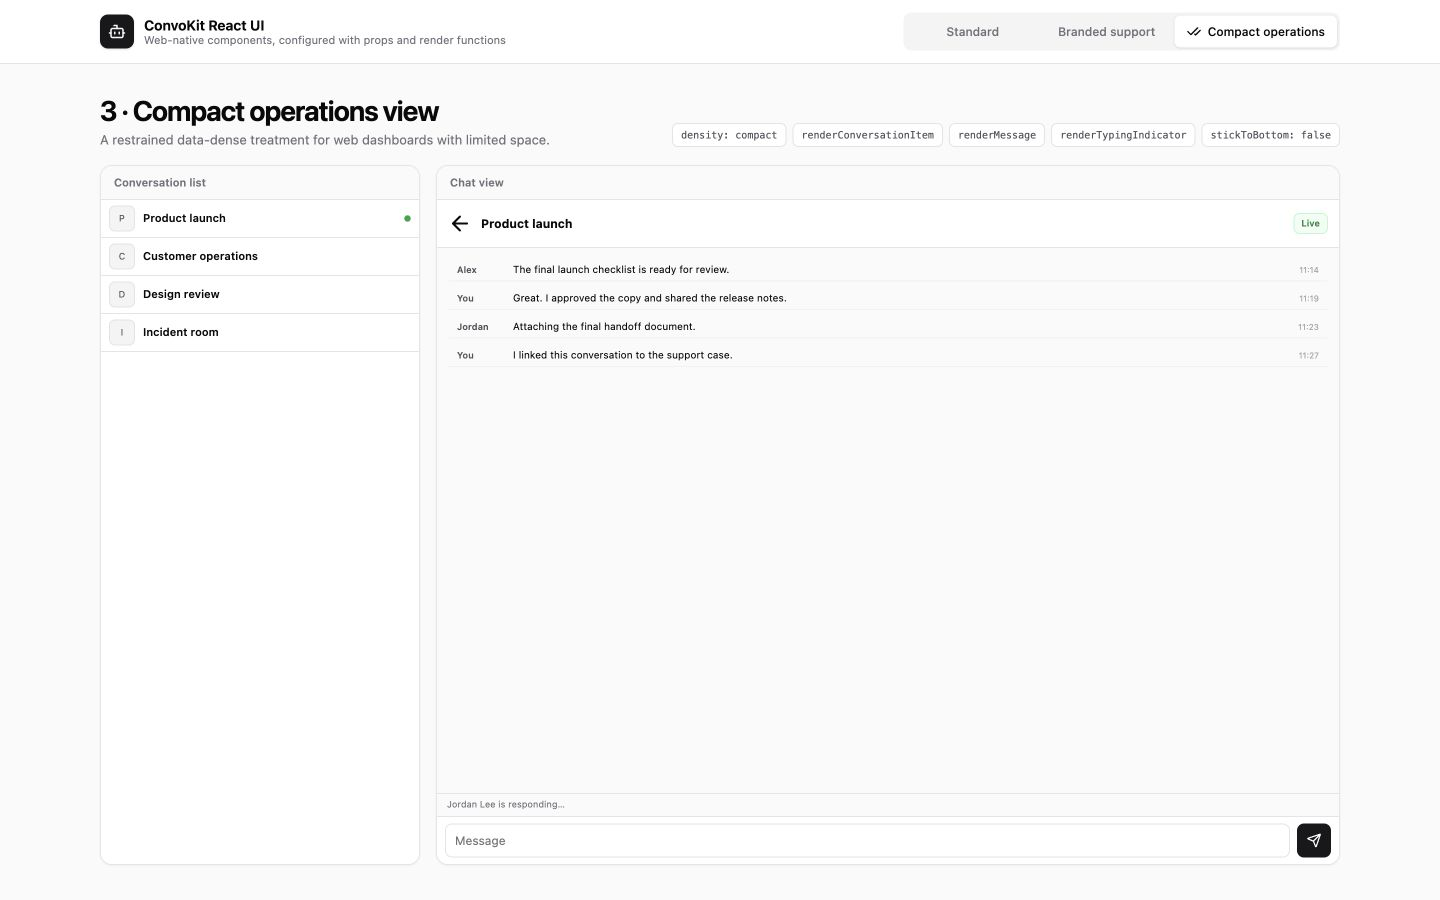
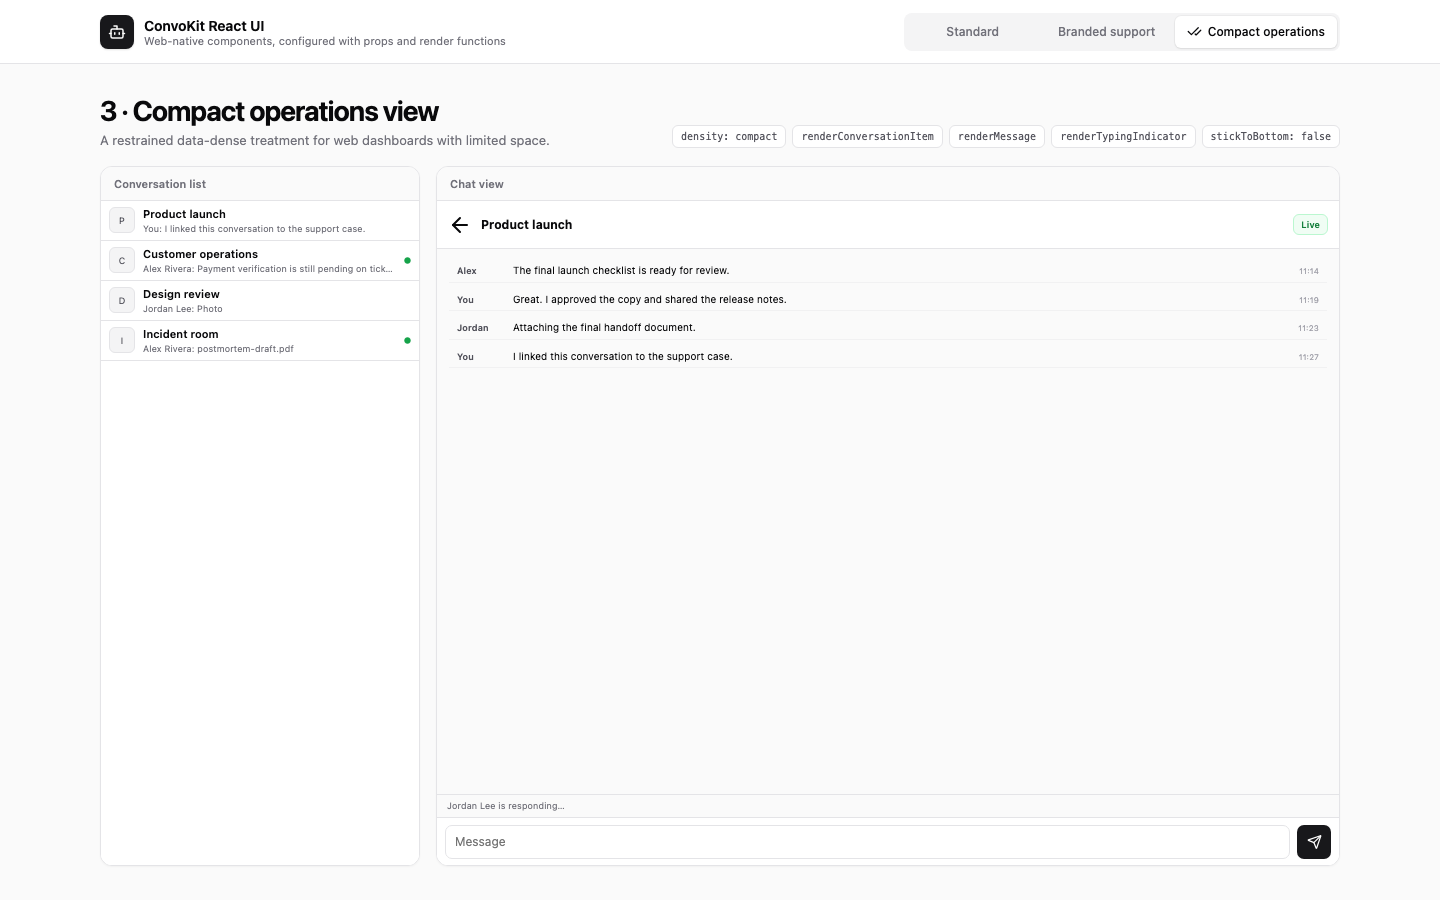
chore(demo): use released SDK and React UI 0.6.0

diff --git a/src/ShowcaseApp.tsx b/src/ShowcaseApp.tsx
@@ -3,13 +3,15 @@ import {
   ConversationListView,
   ConversationView,
   ConvoKitThemeProvider,
+  inboxPreviewText,
   isConvoKitPendingMessage,
   type ComposerRenderProps,
+  type ConversationItemRenderProps,
   type MessageRenderProps,
 } from '@convokitapp/react-ui'
 import { ArrowLeft, Bot, CheckCheck, Circle, Headphones, Paperclip, Send, Ticket, Users } from 'lucide-react'
 import { useMemo, useState } from 'react'
-import { conversations, messages, readAtByUserId } from './fixtures'
+import { conversations, messages, readAtByUserId, summaries } from './fixtures'
 
 export type Variant = 'standard' | 'branded' | 'compact'
 
@@ -23,8 +25,8 @@ const details = {
   standard: {
     number: '1',
     title: 'Standard components',
-    description: 'Neutral, shadcn-inspired defaults for lists, messages, receipts, media and the composer.',
-    props: ['onRefresh', 'onAddAttachment', 'readAtByUserId', 'reverseMessages: true'],
+    description: 'Neutral, shadcn-inspired defaults for lists, previews, unread badges, messages, receipts, media and the composer.',
+    props: ['summaries', 'currentUserId', 'onRefresh', 'onAddAttachment', 'readAtByUserId', 'reverseMessages: true'],
   },
   branded: {
     number: '2',
@@ -108,6 +110,8 @@ function ConversationPanel({ variant, chat = false }: { variant: Variant; chat?:
     return (
       <ConversationListView
         conversations={conversations}
+        summaries={summaries}
+        currentUserId="maya"
         selectedConversationId={selected.id}
         onConversationSelect={() => undefined}
         density={variant === 'compact' ? 'compact' : 'comfortable'}
@@ -147,20 +151,37 @@ function ConversationPanel({ variant, chat = false }: { variant: Variant; chat?:
   )
 }
 
-function BrandedConversationRow({ conversation, index, selected, onSelect }: Parameters<NonNullable<React.ComponentProps<typeof ConversationListView>['renderConversationItem']>>[0]) {
+/**
+ * Unread badge from a real `InboxSummary`; null when nothing is unread. Mirrors the package's default badge:
+ * the visible label overflows to 99+, while the accessible name keeps the exact count unless the server capped it.
+ */
+function unreadBadge(summary: ConversationItemRenderProps['summary']) {
+  if (!summary || (summary.unreadCount <= 0 && !summary.unreadCountCapped)) return null
+  const overflow = summary.unreadCount > 99 || summary.unreadCountCapped
+  return {
+    label: overflow ? '99+' : String(summary.unreadCount),
+    name: summary.unreadCountCapped ? '99+ unread' : `${summary.unreadCount} unread`,
+  }
+}
+
+function BrandedConversationRow({ conversation, selected, onSelect, summary, currentUserId }: ConversationItemRenderProps) {
+  const unread = unreadBadge(summary)
   return (
     <button type="button" className="branded-row" data-selected={selected || undefined} onClick={onSelect}>
       <span className="branded-row__avatar">{conversation.displayTitle[0]}</span>
-      <span><strong>{conversation.displayTitle}</strong><small>{index === 0 ? 'Waiting for your reply' : 'Last reply today'}</small></span>
-      {index === 0 ? <b>2</b> : null}
+      <span><strong>{conversation.displayTitle}</strong><small>{(summary && inboxPreviewText(summary, conversation, currentUserId)) || conversation.description}</small></span>
+      {unread ? <b aria-label={unread.name}>{unread.label}</b> : null}
     </button>
   )
 }
 
-function CompactConversationRow({ conversation, selected, onSelect }: Parameters<NonNullable<React.ComponentProps<typeof ConversationListView>['renderConversationItem']>>[0]) {
+function CompactConversationRow({ conversation, onSelect, summary, currentUserId }: ConversationItemRenderProps) {
+  const unread = unreadBadge(summary)
   return (
     <button type="button" className="compact-row" onClick={onSelect}>
-      <span>{conversation.displayTitle[0]}</span><strong>{conversation.displayTitle}</strong>{selected ? <Circle fill="currentColor" size={7} /> : null}
+      <span>{conversation.displayTitle[0]}</span>
+      <span><strong>{conversation.displayTitle}</strong><small>{(summary && inboxPreviewText(summary, conversation, currentUserId)) || conversation.description}</small></span>
+      {unread ? <Circle fill="currentColor" size={7} role="img" aria-label={unread.name} /> : null}
     </button>
   )
 }

diff --git a/src/fixtures.ts b/src/fixtures.ts
@@ -1,4 +1,4 @@
-import type { Conversation, Message } from '@convokitapp/sdk'
+import type { Conversation, InboxSummary, Message } from '@convokitapp/sdk'
 
 const participants = [
   {
@@ -112,4 +112,76 @@ export const messages: Message[] = [
 export const readAtByUserId = new Map([
   ['alex', new Date('2026-08-26T11:30:00Z')],
   ['jordan', new Date('2026-08-26T11:28:00Z')],
+])
+
+/** What `listInbox` would return for Maya: the newest message, her unread count and activity time per room. */
+export const summaries = new Map<string, InboxSummary>([
+  [
+    'product-launch',
+    {
+      latestMessage: messages[3]!,
+      unreadCount: 0,
+      unreadCountCapped: false,
+      readPosition: { messageId: 'message-3', createdAt: new Date('2026-08-26T11:23:00Z') },
+      lastReadAt: new Date('2026-08-26T11:30:00Z'),
+      activityAt: new Date('2026-08-26T11:27:00Z'),
+    },
+  ],
+  [
+    'customer-operations',
+    {
+      latestMessage: {
+        id: 'message-5',
+        conversationId: 'customer-operations',
+        senderId: 'alex',
+        text: 'Payment verification is still pending on ticket CK-4821.',
+        media: [],
+        createdAt: new Date('2026-08-26T11:26:00Z'),
+        updatedAt: null,
+      },
+      unreadCount: 2,
+      unreadCountCapped: false,
+      readPosition: null,
+      lastReadAt: new Date('2026-08-26T10:58:00Z'),
+      activityAt: new Date('2026-08-26T11:26:00Z'),
+    },
+  ],
+  [
+    'design-review',
+    {
+      latestMessage: {
+        id: 'message-6',
+        conversationId: 'design-review',
+        senderId: 'jordan',
+        text: null,
+        media: [{ id: 'image-2', type: 'image', name: 'settings-panel.png', url: '/launch-board.svg', size: 90112 }],
+        createdAt: new Date('2026-08-26T11:25:00Z'),
+        updatedAt: null,
+      },
+      unreadCount: 0,
+      unreadCountCapped: false,
+      readPosition: { messageId: 'message-6', createdAt: new Date('2026-08-26T11:25:00Z') },
+      lastReadAt: new Date('2026-08-26T11:25:30Z'),
+      activityAt: new Date('2026-08-26T11:25:00Z'),
+    },
+  ],
+  [
+    'incident-room',
+    {
+      latestMessage: {
+        id: 'message-7',
+        conversationId: 'incident-room',
+        senderId: 'alex',
+        text: null,
+        media: [{ id: 'file-2', type: 'file', name: 'postmortem-draft.pdf', url: 'https://example.com/postmortem-draft.pdf', size: 512000 }],
+        createdAt: new Date('2026-08-26T11:24:00Z'),
+        updatedAt: null,
+      },
+      unreadCount: 104,
+      unreadCountCapped: false,
+      readPosition: null,
+      lastReadAt: null,
+      activityAt: new Date('2026-08-26T11:24:00Z'),
+    },
+  ],
 ])

diff --git a/src/ShowcaseApp.test.tsx b/src/ShowcaseApp.test.tsx
@@ -9,11 +9,25 @@ describe('ShowcaseApp', () => {
     window.history.replaceState({}, '', '/?variant=standard')
     render(<ShowcaseApp />)
     expect(screen.getByRole('heading', { name: '1 · Standard components' })).toBeVisible()
+    // The package renders previews, activity times and unread badges from the fixture summaries.
+    expect(screen.getByText('You: I linked this conversation to the support case.')).toBeVisible()
+    expect(screen.getByText('Jordan Lee: Photo')).toBeVisible()
+    expect(screen.getByText('Alex Rivera: postmortem-draft.pdf')).toBeVisible()
+    expect(screen.getByRole('img', { name: '2 unread' })).toBeVisible()
+    expect(screen.getByRole('img', { name: '104 unread' })).toHaveTextContent('99+')
+    expect(screen.queryByRole('img', { name: '0 unread' })).toBeNull()
     fireEvent.click(screen.getByRole('button', { name: 'Branded support' }))
     expect(screen.getByRole('heading', { name: '2 · Branded customer support' })).toBeVisible()
     expect(screen.getByText('Priority support · SLA 18 min')).toBeVisible()
+    // Custom rows receive the same summary/currentUserId and render their own badge from it,
+    // with the package's accessible name (exact count unless the server capped it) and 99+ overflow label.
+    expect(screen.getByText('Alex Rivera: Payment verification is still pending on ticket CK-4821.')).toBeVisible()
+    expect(screen.getByLabelText('2 unread')).toHaveTextContent('2')
+    expect(screen.getByLabelText('104 unread')).toHaveTextContent('99+')
+    expect(screen.queryByLabelText('99+ unread')).toBeNull()
     fireEvent.click(screen.getByRole('button', { name: 'Compact operations' }))
     expect(screen.getByRole('heading', { name: '3 · Compact operations view' })).toBeVisible()
     expect(screen.getByText('Jordan Lee is responding…')).toBeVisible()
+    expect(screen.getByRole('img', { name: '2 unread' })).toBeInTheDocument()
   })
 })

diff --git a/src/styles.css b/src/styles.css
@@ -69,8 +69,11 @@ button { color: inherit; }
 
 .compact-row { display: grid; grid-template-columns: 26px minmax(0,1fr) auto; align-items: center; gap: 8px; width: 100%; min-height: 38px; padding: 5px 8px; border: 0; border-bottom: 1px solid #e4e4e7; background: #fff; text-align: left; cursor: pointer; }
 .compact-row:hover { background: #fafafa; }
-.compact-row > span { display: grid; width: 26px; height: 26px; place-items: center; border: 1px solid #e4e4e7; border-radius: 6px; background: #f4f4f5; color: #52525b; font-size: 9px; }
+.compact-row > span:first-child { display: grid; width: 26px; height: 26px; place-items: center; border: 1px solid #e4e4e7; border-radius: 6px; background: #f4f4f5; color: #52525b; font-size: 9px; }
+.compact-row > span:nth-child(2) { display: grid; min-width: 0; }
+.compact-row strong, .compact-row small { overflow: hidden; text-overflow: ellipsis; white-space: nowrap; }
 .compact-row strong { font-size: 11px; font-weight: 600; }
+.compact-row small { color: #71717a; font-size: 9px; }
 .compact-row > svg { color: #16a34a; }
 .compact-header { display: flex; align-items: center; gap: 9px; min-height: 48px; padding: 7px 11px; border-bottom: 1px solid #e4e4e7; background: #fff; }
 .compact-header strong { flex: 1; font-size: 12px; }

diff --git a/src/demo.ts b/src/demo.ts
@@ -85,7 +85,6 @@ export type DemoState = {
   status: string
   activity: string[]
   online: string[]
-  listRevision: number
 }
 type ClientFactory = () => ConvoKitClient
 
@@ -105,7 +104,6 @@ export class DemoModel {
     status: 'Not connected',
     activity: [],
     online: [],
-    listRevision: 0,
   }
   constructor(
     private readonly makeClient: ClientFactory = () =>
@@ -223,7 +221,6 @@ export class DemoModel {
         roomId: restoredRoom,
         status: 'Joining channels…',
         busy: false,
-        listRevision: this.state.listRevision + 1,
       })
       saveSession({ userId, roomId: restoredRoom })
       this.log('Connected as ' + displayName(userId))
@@ -262,7 +259,6 @@ export class DemoModel {
       } else room = await sdk.createConversation({ title: value.trim(), participants: [this.state.userId] })
       if (epoch !== this.epoch) return false
       this.selectRoom(room.id)
-      this.patch({ listRevision: this.state.listRevision + 1 })
       this.log(mode === 'join' ? 'Chatroom membership granted' : 'Created ' + room.displayTitle)
       return true
     } catch (error) {

diff --git a/src/LiveExample.tsx b/src/LiveExample.tsx
@@ -230,7 +230,6 @@ export function LiveExample() {
                   />
                 </label>
                 <ConversationList
-                  key={state.listRevision}
                   client={ui}
                   pageSize={20}
                   selectedConversationId={state.roomId}
@@ -245,7 +244,7 @@ export function LiveExample() {
                 <div className="demo-sidebar-footer">
                   <span className="status-dot" />
                   {state.status}
-                  <span>UI SDK 0.5.0</span>
+                  <span>UI SDK 0.6.0</span>
                 </div>
               </aside>
               <section className="demo-chat-panel" aria-label="Chat workspace">
@@ -358,6 +357,8 @@ export function LiveExample() {
                     if (ok) {
                       setCopied(false)
                       setModal(null)
+                      // The inbox also refetches on the membership signal; this keeps the loaded pages.
+                      void list.current?.refresh()
                     }
                   })
                 }}

diff --git a/README.md b/README.md
@@ -9,10 +9,12 @@ React UI package and the core [`@convokitapp/sdk`](https://www.npmjs.com/package
 
 ## Live open-chatroom demo
 
-This example consumes the published 0.5.0 core and UI packages. The UI library
-automatically refreshes inboxes on room/membership changes and replaces pending
-messages when their matching live/history confirmation arrives. No demo-side
-polling, text matching or duplicate-bubble workaround is required.
+This example consumes the published 0.6.0 core and UI packages. The SDK-backed
+conversation list pages the activity-ordered inbox, shows each room's latest-message
+preview, activity time and unread badge, and refreshes on room/membership/activity
+signals; pending messages are replaced when their matching live/history confirmation
+arrives. No demo-side polling, preview/unread bookkeeping, text matching or
+duplicate-bubble workaround is required.
 
 [Open the React demo](https://convokit-react-demo.vercel.app). It uses the same backend, demo personas and
 room IDs as the [Flutter demo](https://convokit-open-chatroom.vercel.app).
@@ -48,15 +50,17 @@ Use the selector to compare configurations, or open `?variant=standard`,
 
 ![Standard ConvoKit React conversation list and chat components](doc/screenshots/standard-components.png)
 
-Web-native, shadcn-inspired package defaults plus refresh, attachment,
-read-position, image/file rendering, and bottom-anchored messages.
+Web-native, shadcn-inspired package defaults plus inbox previews and unread badges
+from `summaries`/`currentUserId`, refresh, attachment, read-position, image/file
+rendering, and bottom-anchored messages.
 
 ### Branded customer support
 
 ![Branded ConvoKit React customer support interface](doc/screenshots/branded-support.png)
 
-A restrained product-branded support workspace built with `renderConversationItem`, `renderHeader`,
-`renderMedia`, `renderReadReceipt`, and `renderComposer`.
+A restrained product-branded support workspace built with `renderConversationItem` (reading the
+row's `summary` and `currentUserId`), `renderHeader`, `renderMedia`, `renderReadReceipt`, and
+`renderComposer`.
 
 ### Compact operations
 
